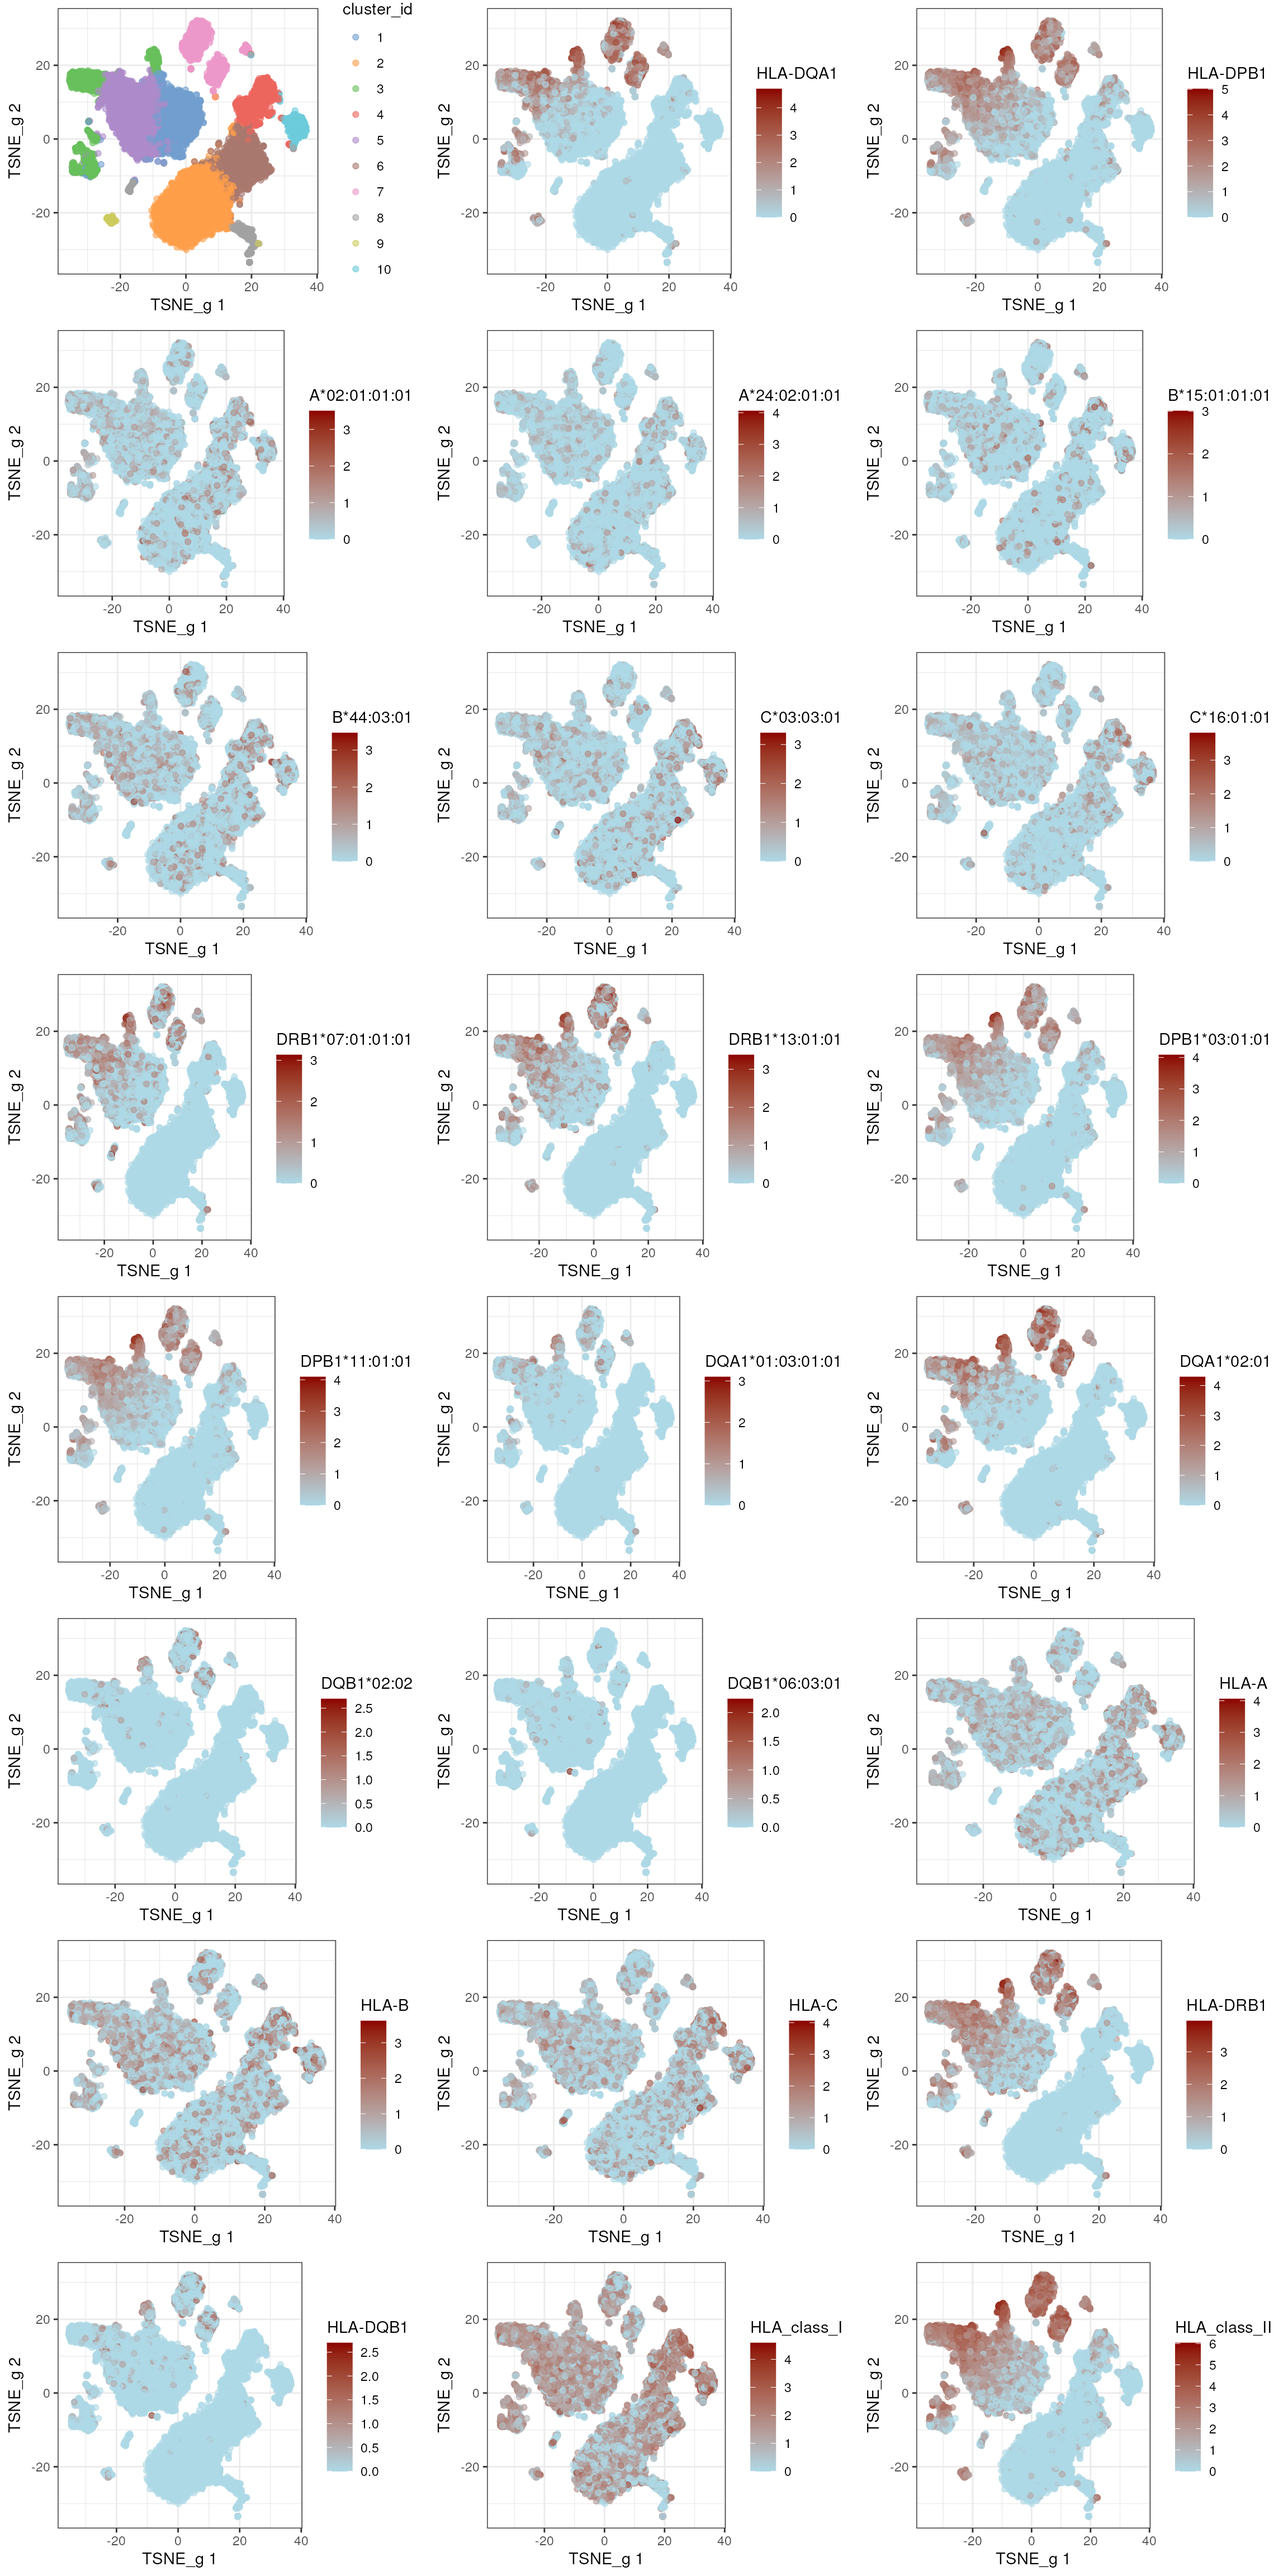
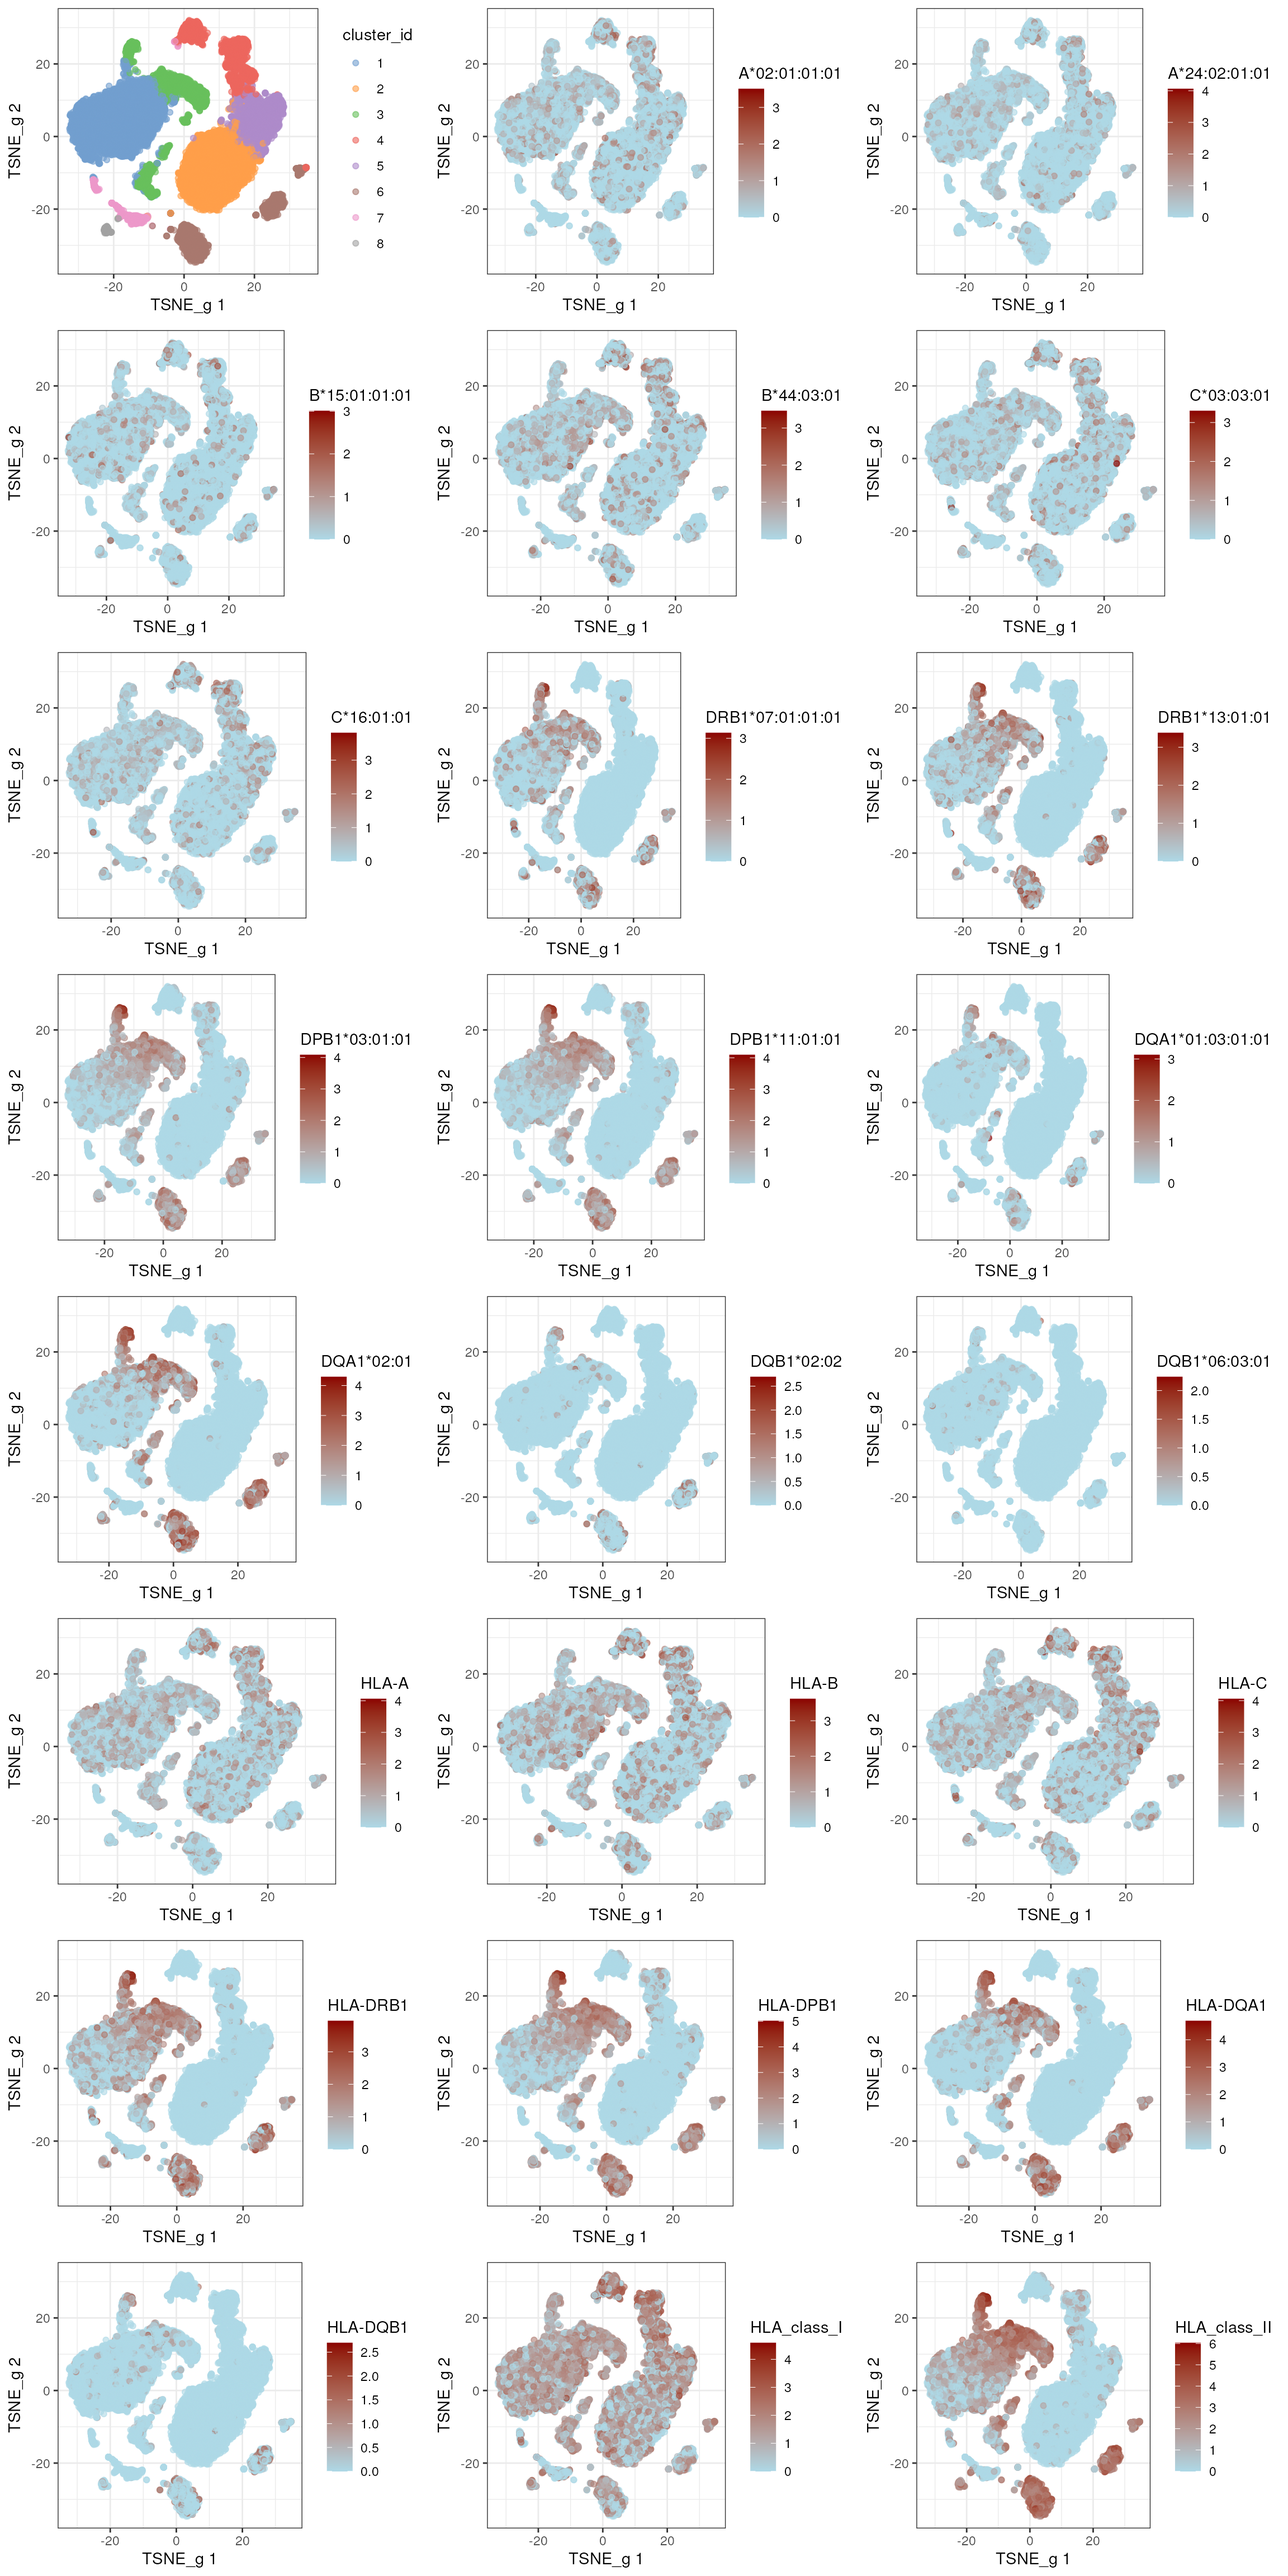
Deploying to gh-pages from @ ahmadalajami/scIGDWorkflowDemoBioC2024@c8652de0376848f5de50c8de1559911c75046065 🚀

Changed region(s): [[0.375, 0.0, 0.6562, 1.0], [0.7188, 0.0, 0.9688, 1.0], [0.0312, 0.0, 0.3125, 1.0]]

diff --git a/articles/scIGDWorkflowDemo.html b/articles/scIGDWorkflowDemo.html
@@ -661,16 +661,16 @@ otherwise, the results will be overwritten and saved incorrectly as
 <code>PCA</code>, for example.</p>
 <p>For simplicity, we here perform dimensionality reduction and
 clustering on gene level, i.e., using immune and non-immune genes, after
-choosing top 2.5% HVG (for memory/demonstration reasons):</p>
+choosing top 2% HVG (for memory/demonstration reasons):</p>
 <div class="sourceCode" id="cb15"><pre class="downlit sourceCode r">
 <code class="sourceCode R"><span><span class="fu"><a href="https://rdrr.io/r/base/Random.html" class="external-link">set.seed</a></span><span class="op">(</span><span class="fl">42L</span><span class="op">)</span></span>
 <span></span>
 <span><span class="va">create_dim_red</span> <span class="op">&lt;-</span> <span class="kw">function</span><span class="op">(</span><span class="va">scae</span><span class="op">)</span><span class="op">{</span></span>
 <span>  <span class="va">genes</span> <span class="op">&lt;-</span> <span class="fu"><a href="https://rdrr.io/r/base/c.html" class="external-link">c</a></span><span class="op">(</span><span class="fu"><a href="https://rdrr.io/r/base/colnames.html" class="external-link">rownames</a></span><span class="op">(</span><span class="fu"><a href="https://rdrr.io/pkg/SingleCellAlleleExperiment/man/scae_subset.html" class="external-link">scae_subset</a></span><span class="op">(</span><span class="va">scae</span>, <span class="st">"nonimmune"</span><span class="op">)</span><span class="op">)</span>, <span class="fu"><a href="https://rdrr.io/r/base/colnames.html" class="external-link">rownames</a></span><span class="op">(</span><span class="fu"><a href="https://rdrr.io/pkg/SingleCellAlleleExperiment/man/scae_subset.html" class="external-link">scae_subset</a></span><span class="op">(</span><span class="va">scae</span>, <span class="st">"immune_genes"</span><span class="op">)</span><span class="op">)</span><span class="op">)</span></span>
 <span>  <span class="va">gene_var</span> <span class="op">&lt;-</span> <span class="fu"><a href="https://rdrr.io/pkg/scran/man/modelGeneVar.html" class="external-link">modelGeneVar</a></span><span class="op">(</span><span class="va">scae</span><span class="op">[</span><span class="va">genes</span>, <span class="op">]</span><span class="op">)</span></span>
-<span>  <span class="va">chosen_hvgs</span> <span class="op">&lt;-</span> <span class="fu"><a href="https://rdrr.io/pkg/scran/man/getTopHVGs.html" class="external-link">getTopHVGs</a></span><span class="op">(</span><span class="va">gene_var</span>, prop<span class="op">=</span><span class="fl">0.025</span><span class="op">)</span> <span class="co"># you could use 20%</span></span>
+<span>  <span class="va">chosen_hvgs</span> <span class="op">&lt;-</span> <span class="fu"><a href="https://rdrr.io/pkg/scran/man/getTopHVGs.html" class="external-link">getTopHVGs</a></span><span class="op">(</span><span class="va">gene_var</span>, prop<span class="op">=</span><span class="fl">0.02</span><span class="op">)</span> <span class="co"># you could use 20%</span></span>
 <span>  <span class="va">immune_features</span> <span class="op">&lt;-</span> <span class="fu"><a href="https://rdrr.io/r/base/grep.html" class="external-link">grep</a></span><span class="op">(</span><span class="st">"^ENS"</span>, <span class="fu"><a href="https://rdrr.io/r/base/colnames.html" class="external-link">rownames</a></span><span class="op">(</span><span class="va">scae</span><span class="op">)</span>, invert<span class="op">=</span><span class="cn">TRUE</span>, value<span class="op">=</span><span class="cn">TRUE</span><span class="op">)</span></span>
-<span>  <span class="va">scae</span> <span class="op">&lt;-</span> <span class="va">scae</span><span class="op">[</span><span class="fu"><a href="https://rdrr.io/r/base/unique.html" class="external-link">unique</a></span><span class="op">(</span><span class="fu"><a href="https://rdrr.io/r/base/c.html" class="external-link">c</a></span><span class="op">(</span><span class="va">chosen_hvgs</span>, <span class="va">immune_features</span><span class="op">)</span><span class="op">)</span>, <span class="op">]</span> <span class="co"># do NOT do this - this is executed here for memory/demonstration reasons</span></span>
+<span>  <span class="va">scae</span> <span class="op">&lt;-</span> <span class="va">scae</span><span class="op">[</span><span class="fu"><a href="https://rdrr.io/r/base/unique.html" class="external-link">unique</a></span><span class="op">(</span><span class="fu"><a href="https://rdrr.io/r/base/c.html" class="external-link">c</a></span><span class="op">(</span><span class="va">immune_features</span>, <span class="va">chosen_hvgs</span><span class="op">)</span><span class="op">)</span>, <span class="op">]</span> <span class="co"># do NOT do this - this is executed here for memory/demonstration reasons</span></span>
 <span>  <span class="va">scae</span> <span class="op">&lt;-</span> <span class="fu"><a href="https://rdrr.io/pkg/BiocSingular/man/runPCA.html" class="external-link">runPCA</a></span><span class="op">(</span><span class="va">scae</span>, subset_row<span class="op">=</span><span class="va">chosen_hvgs</span>, name<span class="op">=</span><span class="st">"PCA_g"</span><span class="op">)</span></span>
 <span>  <span class="va">scae</span> <span class="op">&lt;-</span> <span class="fu"><a href="https://rdrr.io/pkg/scater/man/runUMAP.html" class="external-link">runUMAP</a></span><span class="op">(</span><span class="va">scae</span>, dimred<span class="op">=</span><span class="st">"PCA_g"</span>, name<span class="op">=</span><span class="st">"UMAP_g"</span><span class="op">)</span></span>
 <span>  <span class="va">scae</span> <span class="op">&lt;-</span> <span class="fu"><a href="https://rdrr.io/pkg/scater/man/runTSNE.html" class="external-link">runTSNE</a></span><span class="op">(</span><span class="va">scae</span>, dimred<span class="op">=</span><span class="st">"PCA_g"</span>, name<span class="op">=</span><span class="st">"TSNE_g"</span><span class="op">)</span></span>
